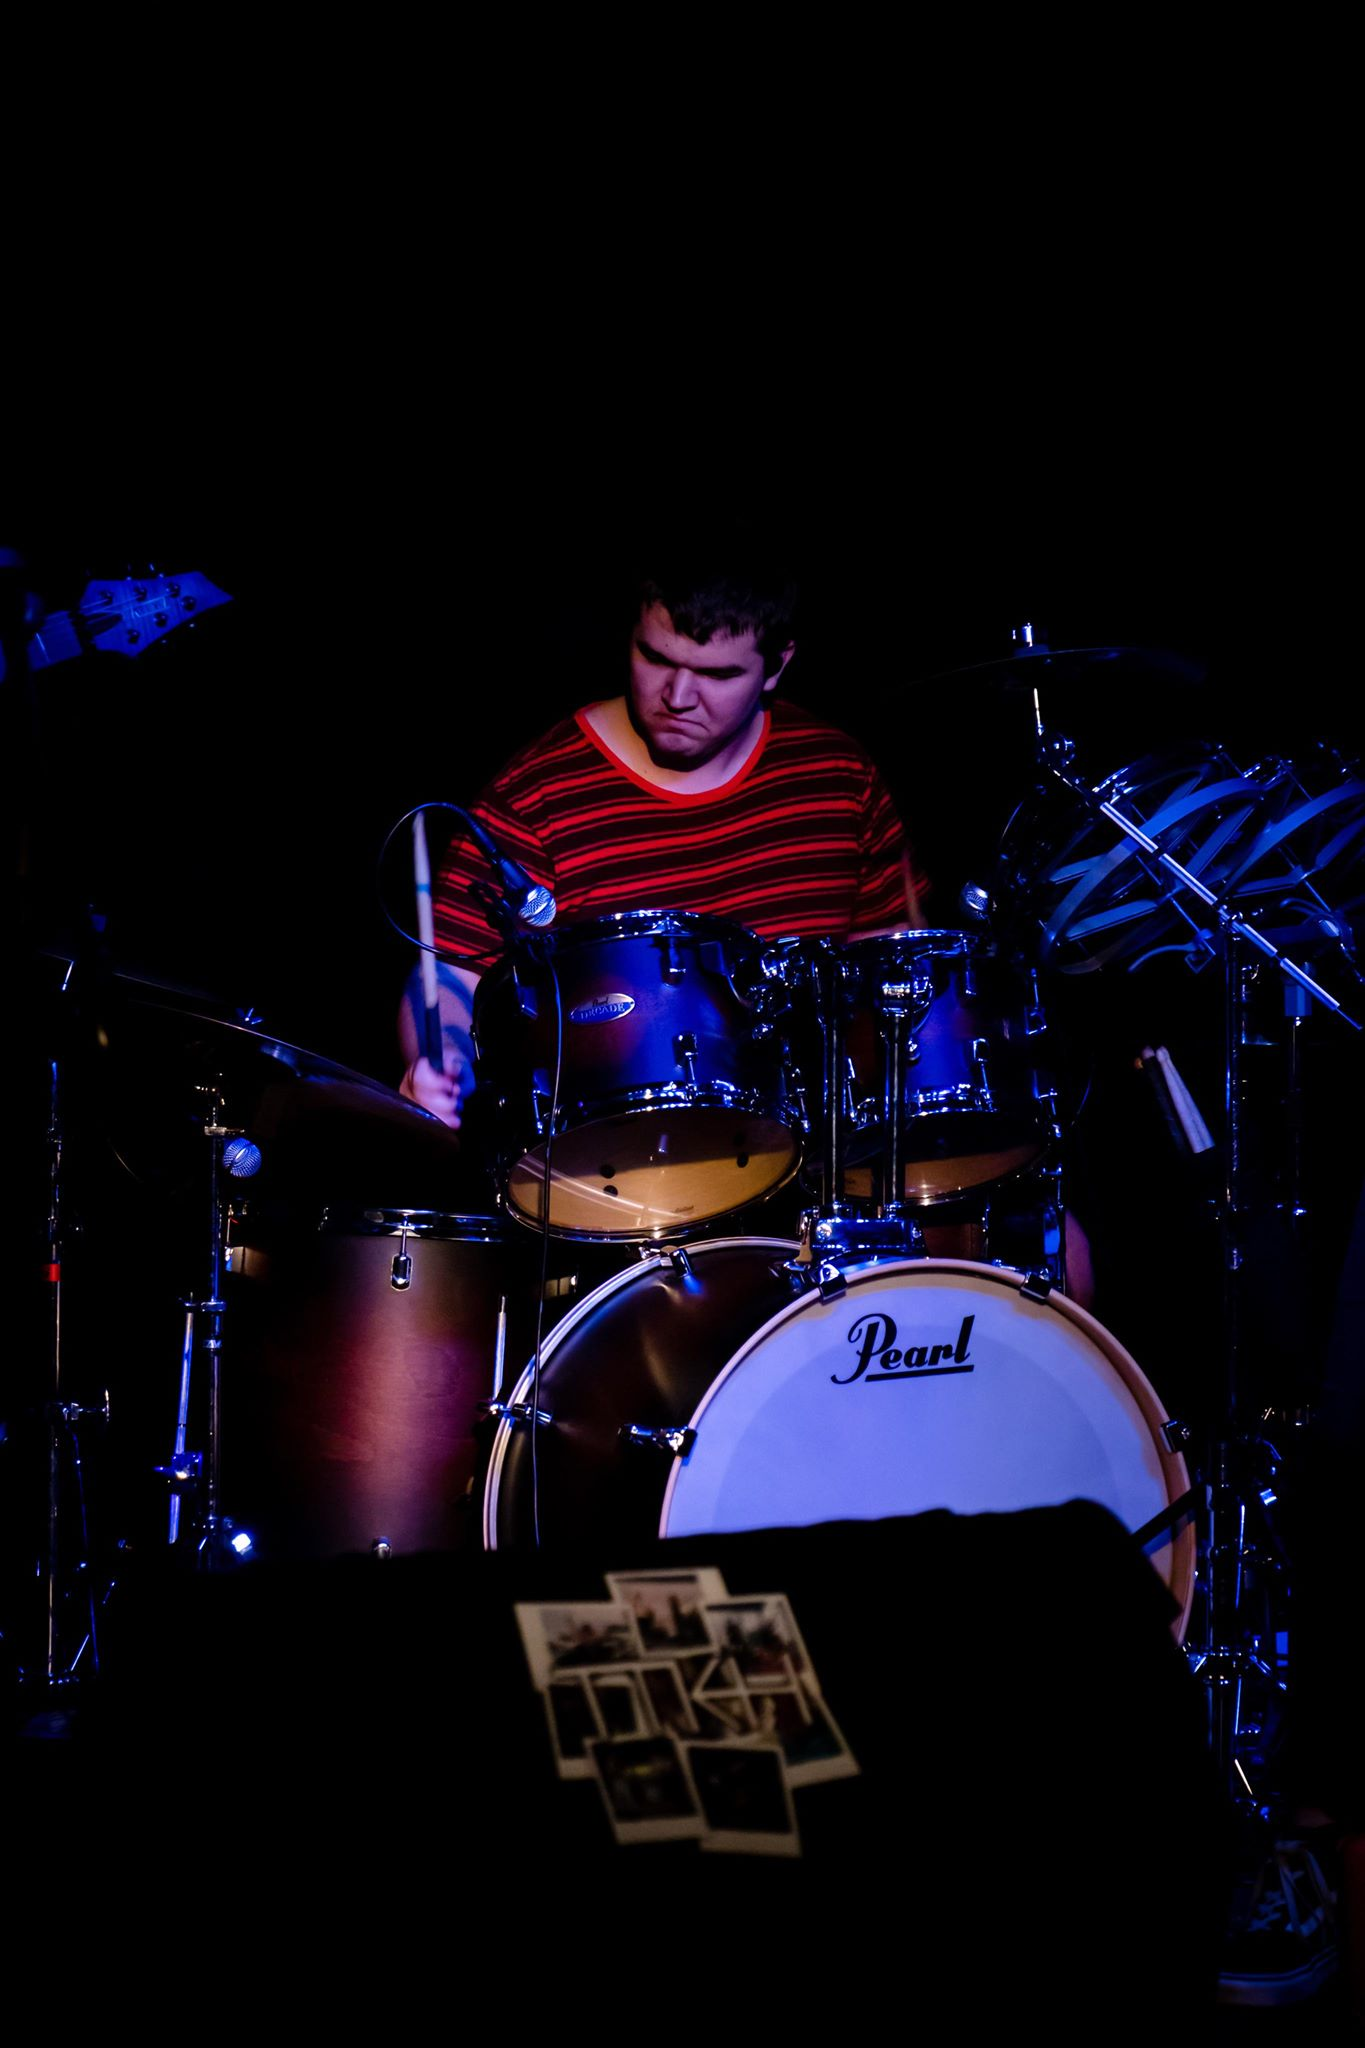
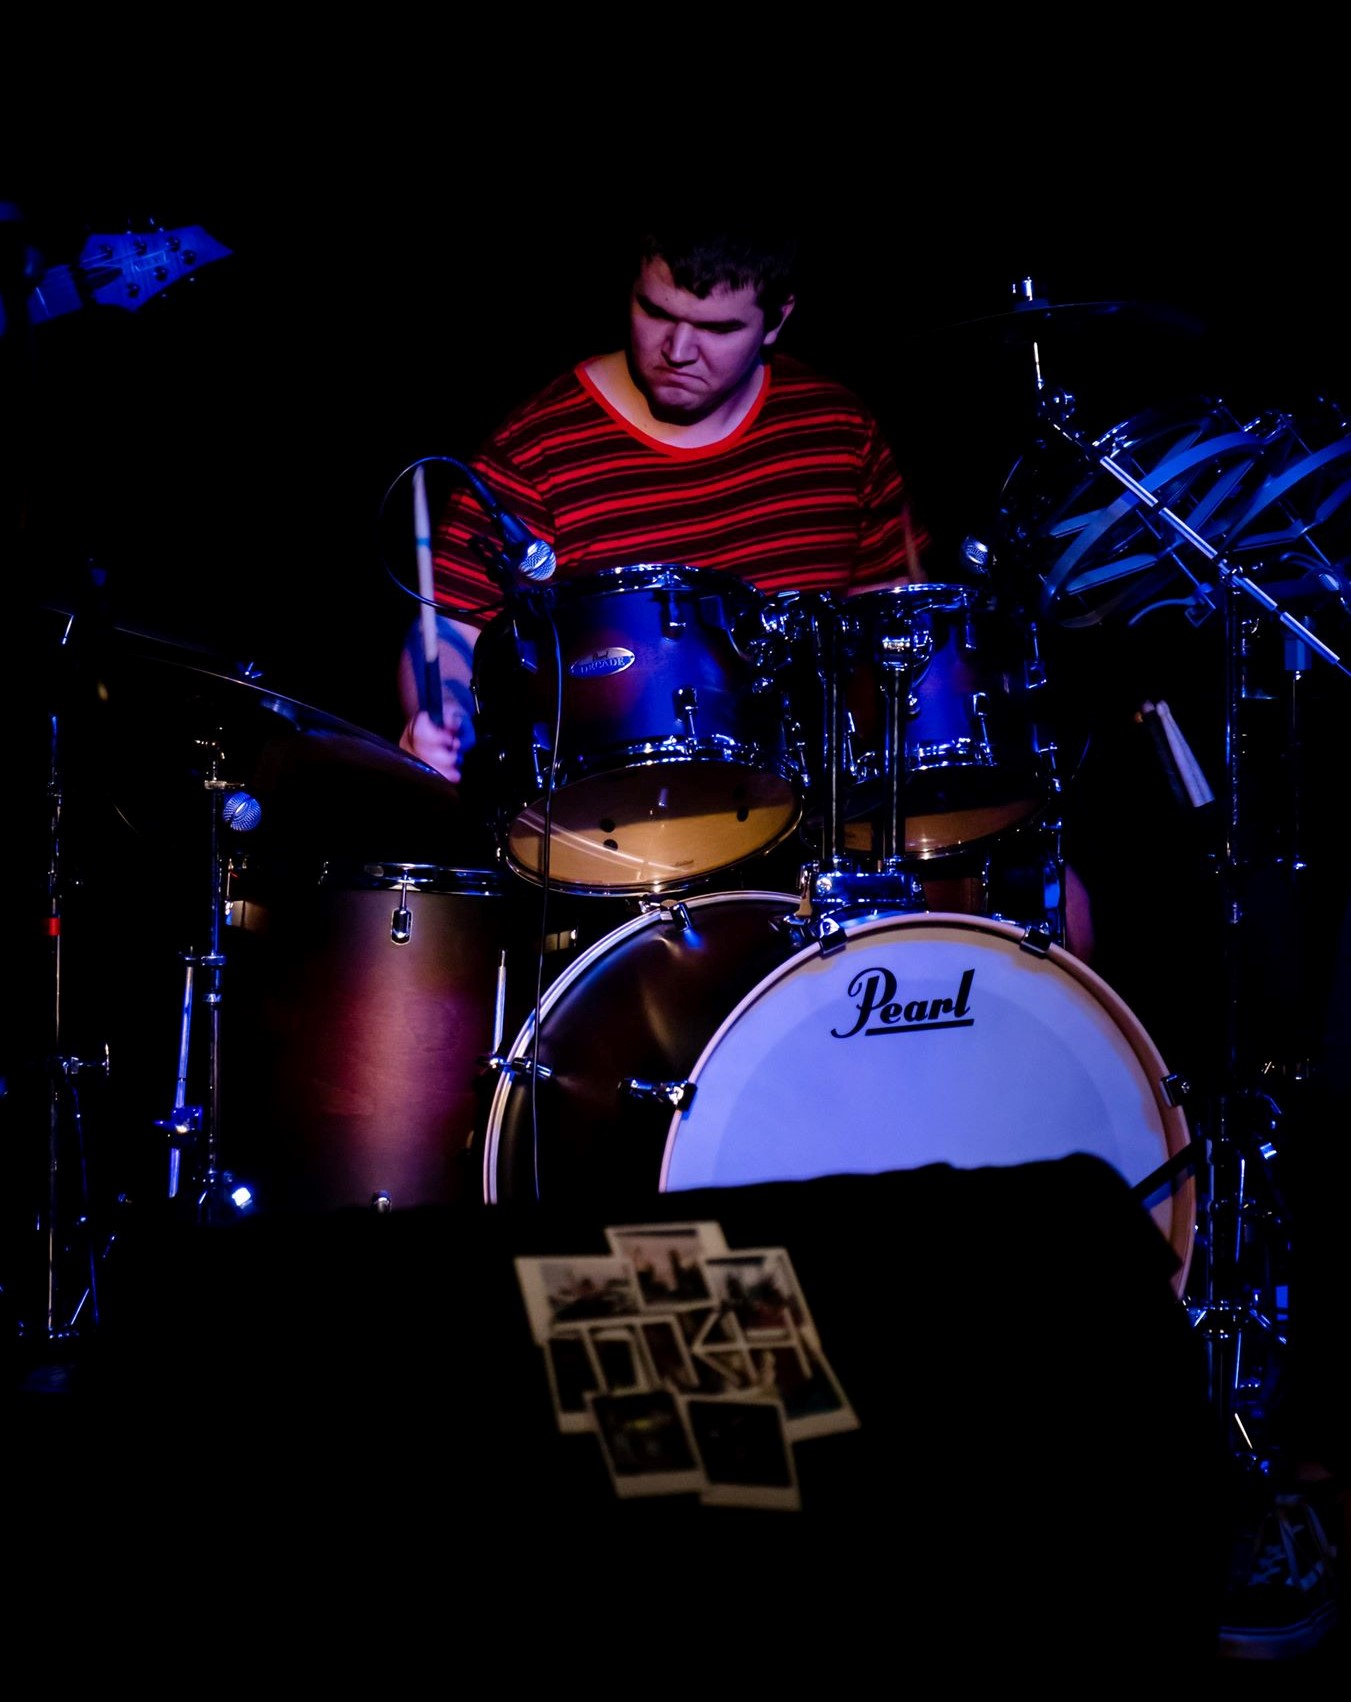
Yep

diff --git a/about.html b/about.html
@@ -31,7 +31,6 @@
                 <iframe src="https://open.spotify.com/embed/track/5pjdJ4ztlxmM2tvd9alHBt" width="300" height="80" frameborder="0" allowtransparency="true" allow="encrypted-media"></iframe>
             </div>
             <div class="member-about">
-                <h1>Members</h1>
                 <div class="member-left">
                     <img class="member-img" src="images/abby.jpg" alt="Abby singing on stage">
                     <div class="member-text">
@@ -45,7 +44,7 @@
                     <img class="member-img" src="images/braedon.jpg" alt="Braedon playing drums">
                 </div>
                 <div class="member-left">
-                    <img class="member-img" src="images/kateabout.jpg" alt="Kate playing bass">
+                    <img class="member-img" src="images/katebass.jpg" alt="Kate playing bass">
                     <div class="member-text">
                         <h2>Kate Seeger</h2>
                     </div>

diff --git a/css/about.css b/css/about.css
@@ -31,7 +31,7 @@
 
 .member-img {
     object-fit: cover;
-    object-position: 50% 50%;
+    object-position: 50% 20%;
     width: 30%;
     height: 100%;
 }
